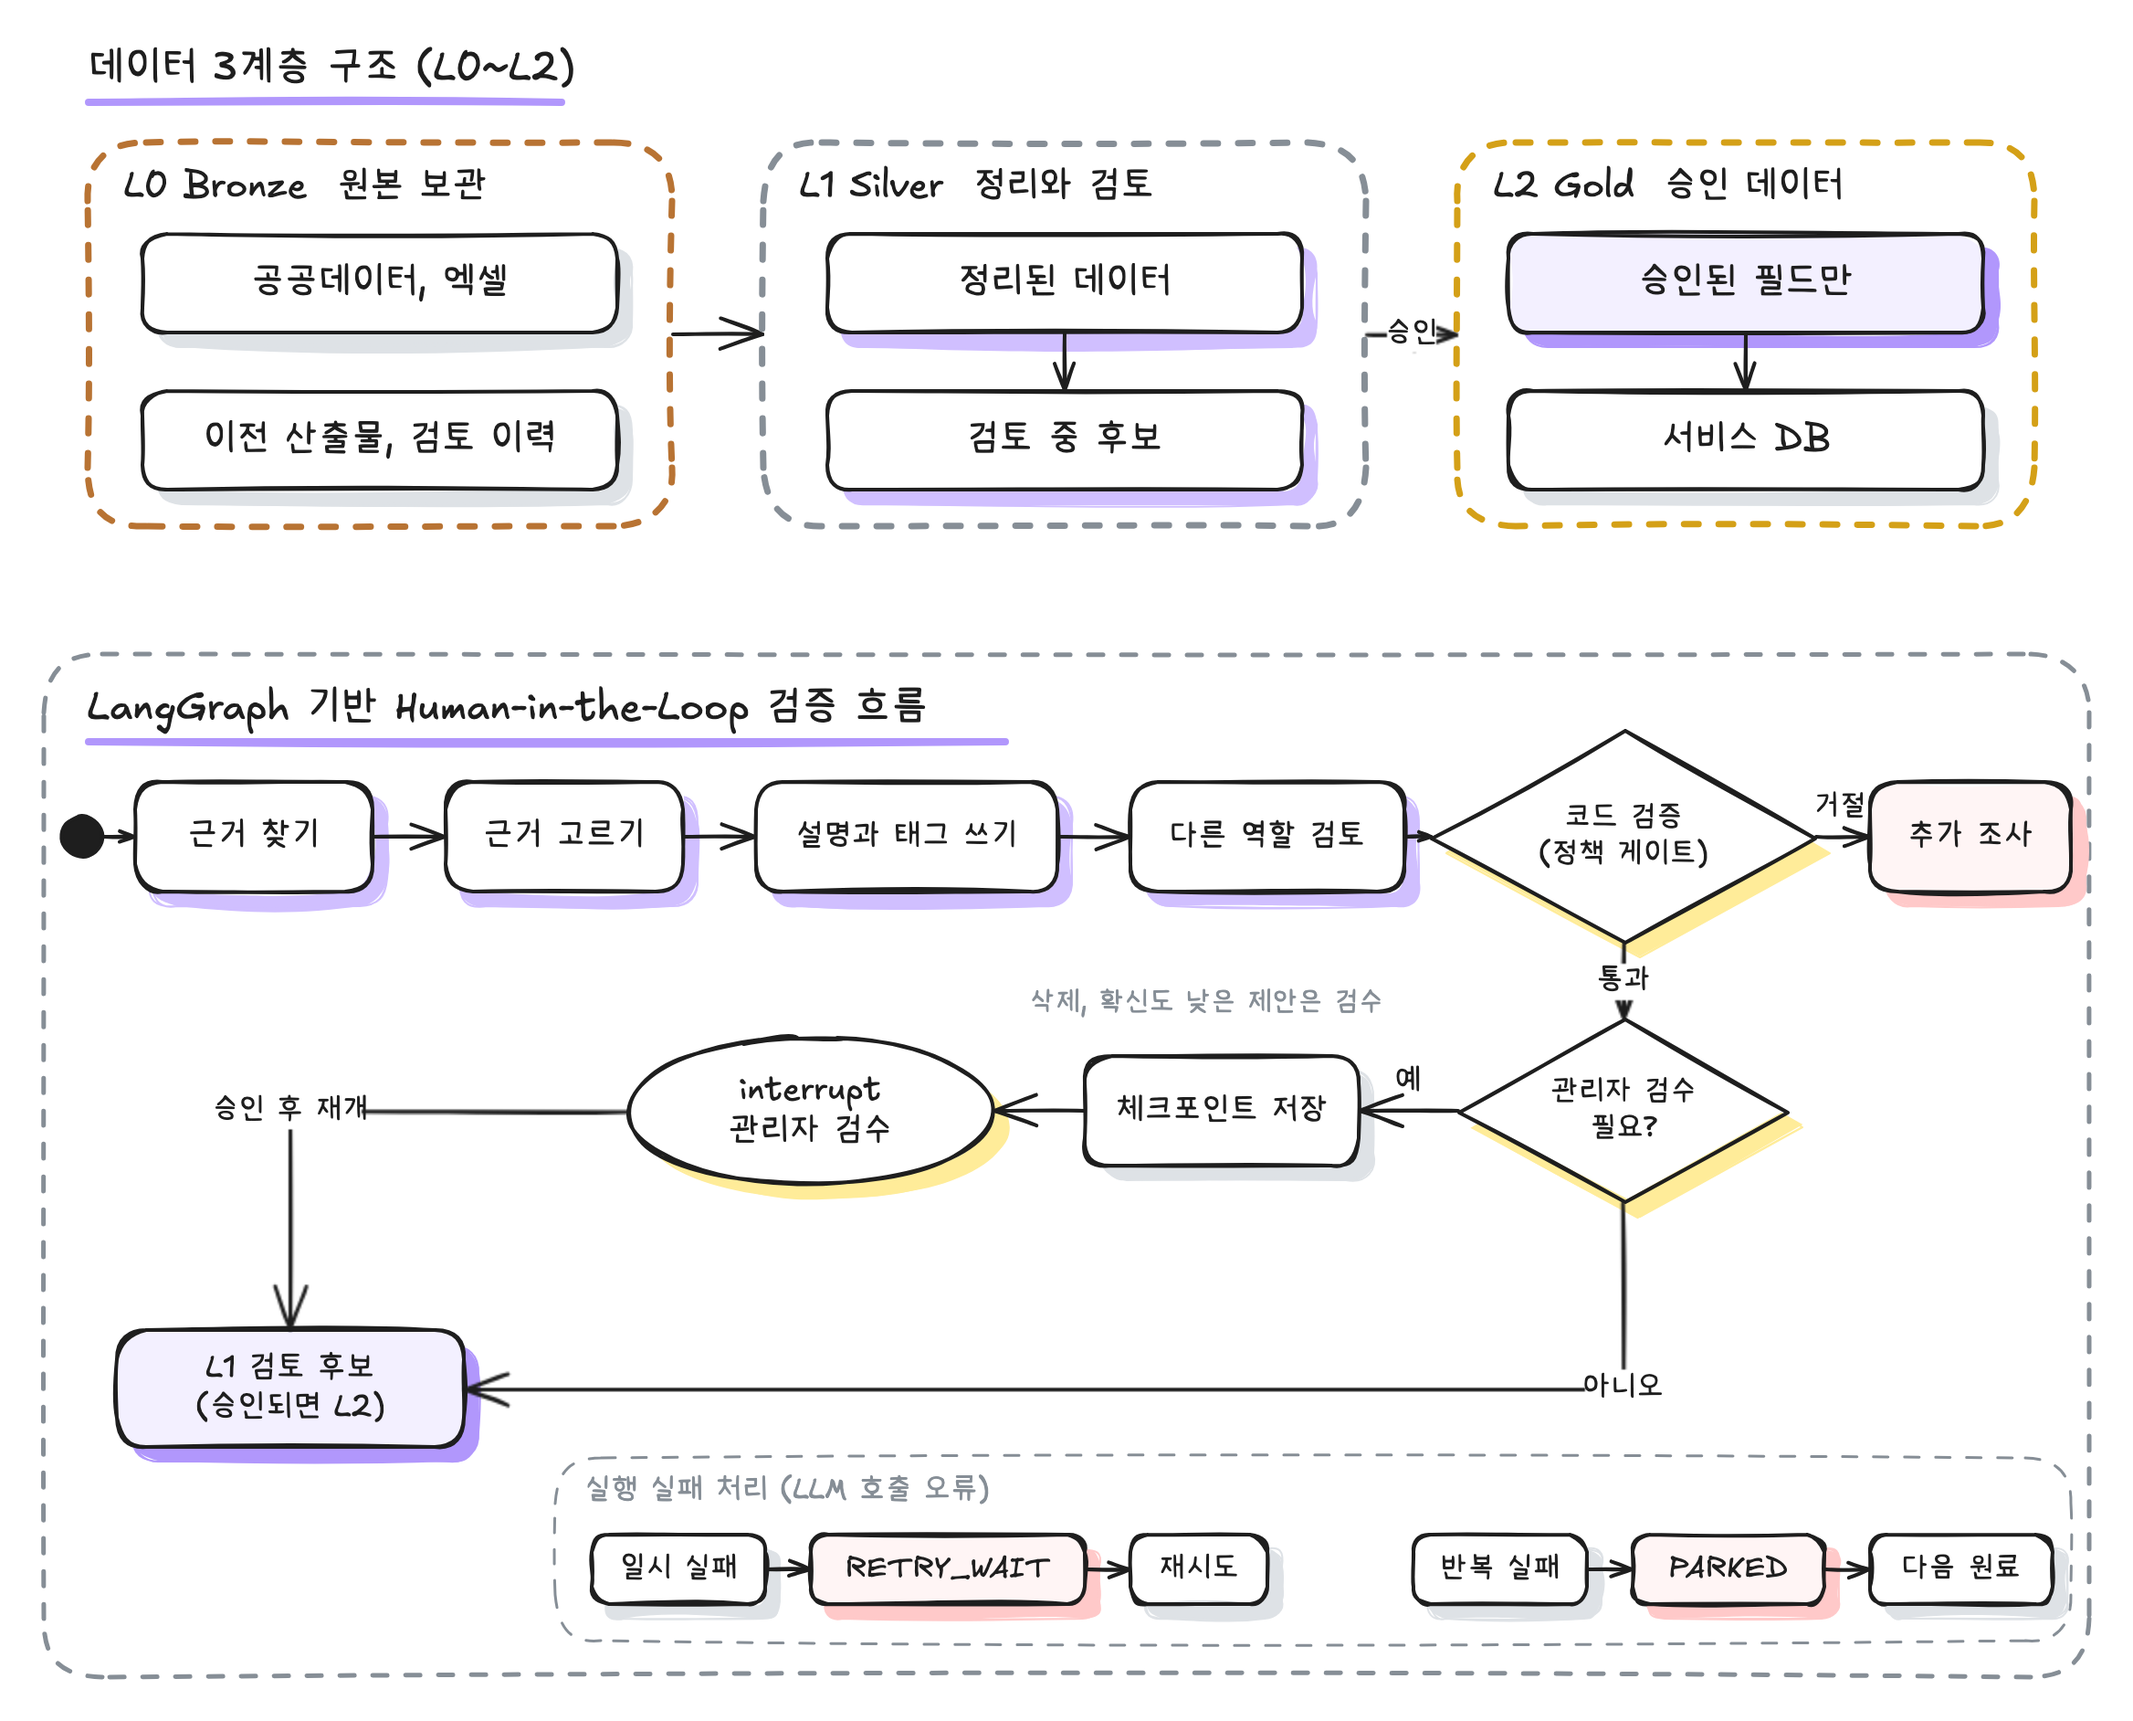
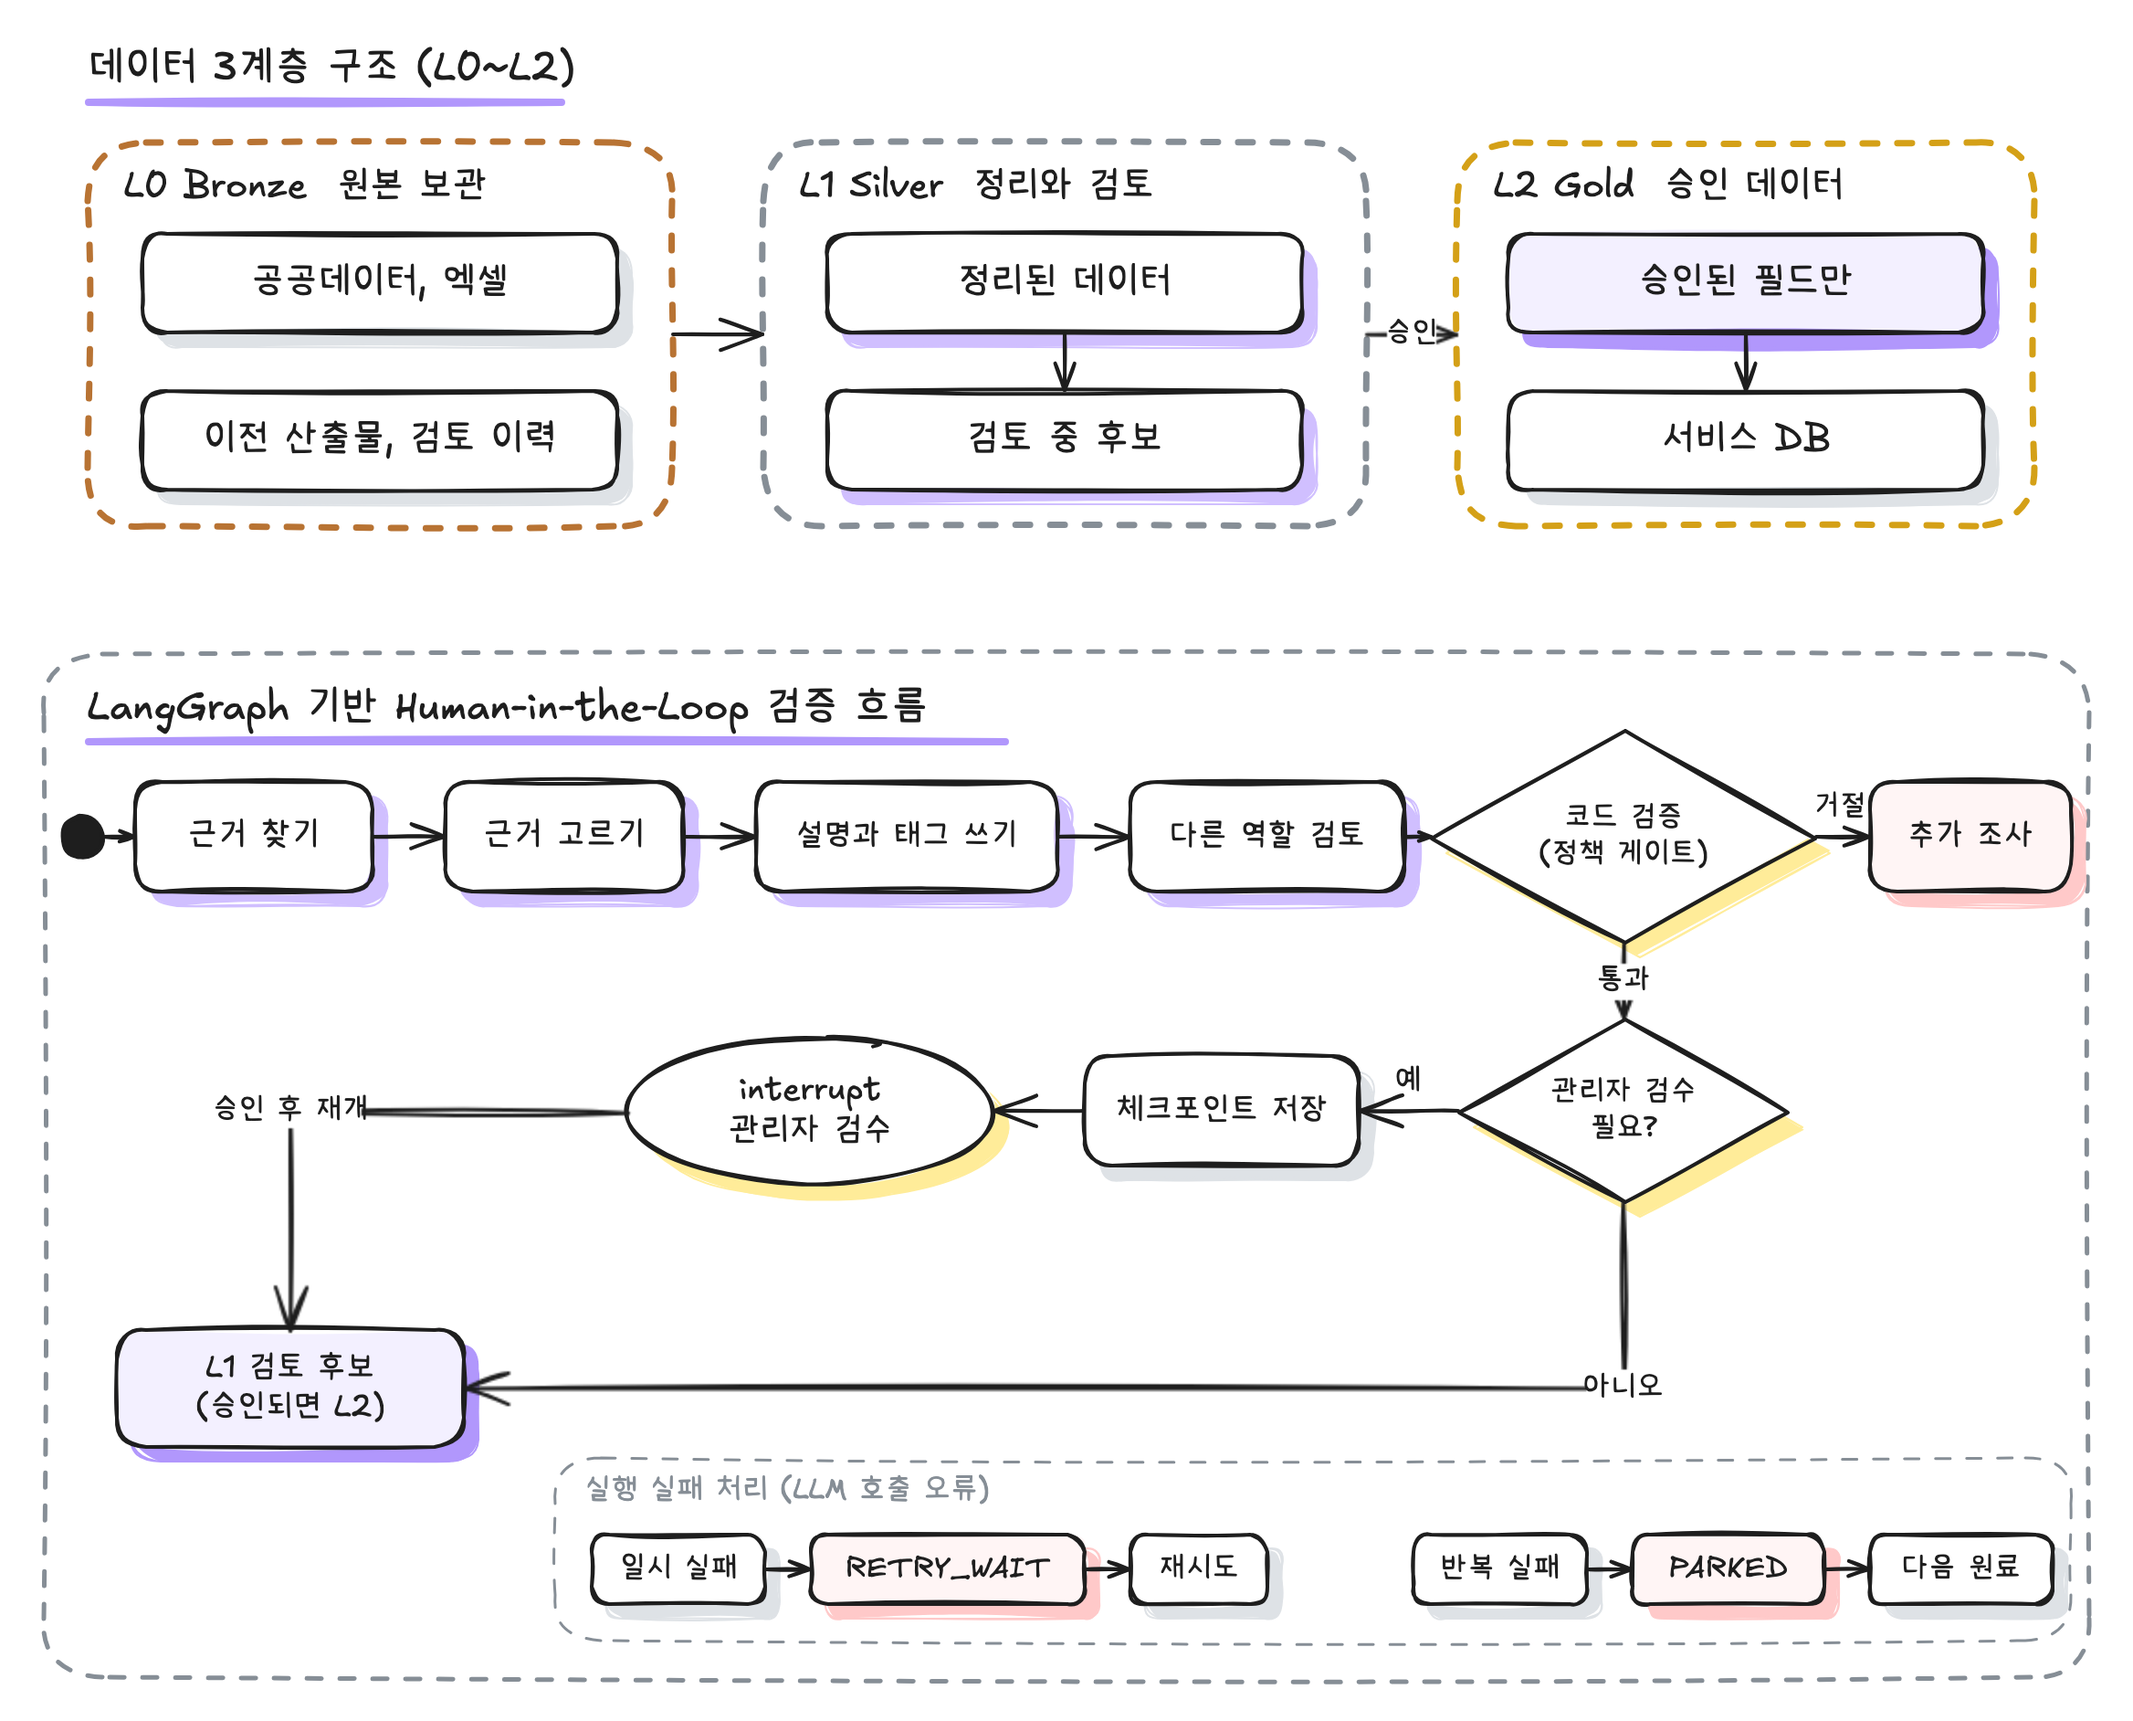
portfolio: 사례 02 그림에서 본문과 겹치는 검수 조건 문구 제거

diff --git a/index.html b/index.html
@@ -94,8 +94,8 @@
   <h3 id="case-title-2">LLM 판단과 코드 검증을 분리한 3계층 성분 데이터 파이프라인 구축</h3>
   <p class="case-deck">성분 데이터를 처리 단계별 3계층(L0 원본 보관, L1 정리와 검토, L2 승인 데이터)으로 나누고, 답이 정해진 검증은 코드가, 판단이 필요한 작업만 LLM이 맡도록 역할을 나눴습니다.</p>
   <figure>
-    <div class="figure-heading"><p class="figure-title">데이터 3계층 구조와 LangGraph 검증 흐름</p><a href="assets/diagrams/data-hub-layers.png?v=27fb8d0e" data-diagram aria-label="데이터 3계층 구조와 LangGraph 검증 흐름 크게 보기">크게 보기 ↗</a></div>
-    <a class="diagram-link" href="assets/diagrams/data-hub-layers.png?v=27fb8d0e" data-diagram aria-label="데이터 3계층 구조와 LangGraph 검증 흐름 이미지 확대"><img class="diagram-image" src="assets/diagrams/data-hub-layers.png?v=27fb8d0e" width="2336" height="1884" alt="데이터는 L0 원본 보관, L1 정리와 검토, L2 승인 데이터 세 계층으로 나뉘고, L2에는 승인된 필드만 올라가 서비스 DB로 반영된다. LangGraph 흐름은 근거 찾기, 근거 고르기, 설명과 태그 쓰기, 다른 역할 검토를 거쳐 코드 기반 정책 게이트로 검증한다. 거절되면 추가 조사로 가고, 통과하면 삭제나 낮은 확신도 제안인지 보고 관리자 검수가 필요한지 판단한다. 필요하면 체크포인트를 저장하고 interrupt로 멈춘 뒤 검수 승인 후 재개하고, 필요 없으면 바로 L1 검토 후보가 되며, 승인되면 L2로 올라간다. LLM 호출 오류는 일시 실패면 RETRY_WAIT 후 재시도하고, 반복 실패면 PARKED로 두고 다음 원료로 넘어간다" loading="lazy" decoding="async"></a>
+    <div class="figure-heading"><p class="figure-title">데이터 3계층 구조와 LangGraph 검증 흐름</p><a href="assets/diagrams/data-hub-layers.png?v=11fb73f8" data-diagram aria-label="데이터 3계층 구조와 LangGraph 검증 흐름 크게 보기">크게 보기 ↗</a></div>
+    <a class="diagram-link" href="assets/diagrams/data-hub-layers.png?v=11fb73f8" data-diagram aria-label="데이터 3계층 구조와 LangGraph 검증 흐름 이미지 확대"><img class="diagram-image" src="assets/diagrams/data-hub-layers.png?v=11fb73f8" width="2336" height="1884" alt="데이터는 L0 원본 보관, L1 정리와 검토, L2 승인 데이터 세 계층으로 나뉘고, L2에는 승인된 필드만 올라가 서비스 DB로 반영된다. LangGraph 흐름은 근거 찾기, 근거 고르기, 설명과 태그 쓰기, 다른 역할 검토를 거쳐 코드 기반 정책 게이트로 검증한다. 거절되면 추가 조사로 가고, 통과하면 삭제나 낮은 확신도 제안인지 보고 관리자 검수가 필요한지 판단한다. 필요하면 체크포인트를 저장하고 interrupt로 멈춘 뒤 검수 승인 후 재개하고, 필요 없으면 바로 L1 검토 후보가 되며, 승인되면 L2로 올라간다. LLM 호출 오류는 일시 실패면 RETRY_WAIT 후 재시도하고, 반복 실패면 PARKED로 두고 다음 원료로 넘어간다" loading="lazy" decoding="async"></a>
   </figure>
   <div class="psr">
     <div>

diff --git a/scripts/excalidraw/data-hub-layers.py b/scripts/excalidraw/data-hub-layers.py
@@ -53,7 +53,6 @@ c.box('h2', 590, 590, 150, 60, '체크포인트 저장', GRAY, fs=17)
 c.box('h3', 340, 580, 200, 80, 'interrupt\n관리자 검수', YEL, shape='ellipse', fs=18)
 c.msg('e7', 795, 740, 620, '예')
 c.arrow('e8', 590, 620, [[0, 0], [-50, 0]])
-c.text('h1n', 560, 552, '삭제, 확신도 낮은 제안은 검수', 15, exlib.MUTED)
 c.box('h4', 60, 740, 190, 64, 'L1 검토 후보\n(승인되면 L2)', LAV2, LAVF, fs=17)
 c.arrow('e9', 340, 620, [[0, 0], [-185, 0], [-185, 120]], label='승인 후 재개')
 c.arrow('e10', 885, 670, [[0, 0], [0, 102], [-635, 102]], label='아니오')
